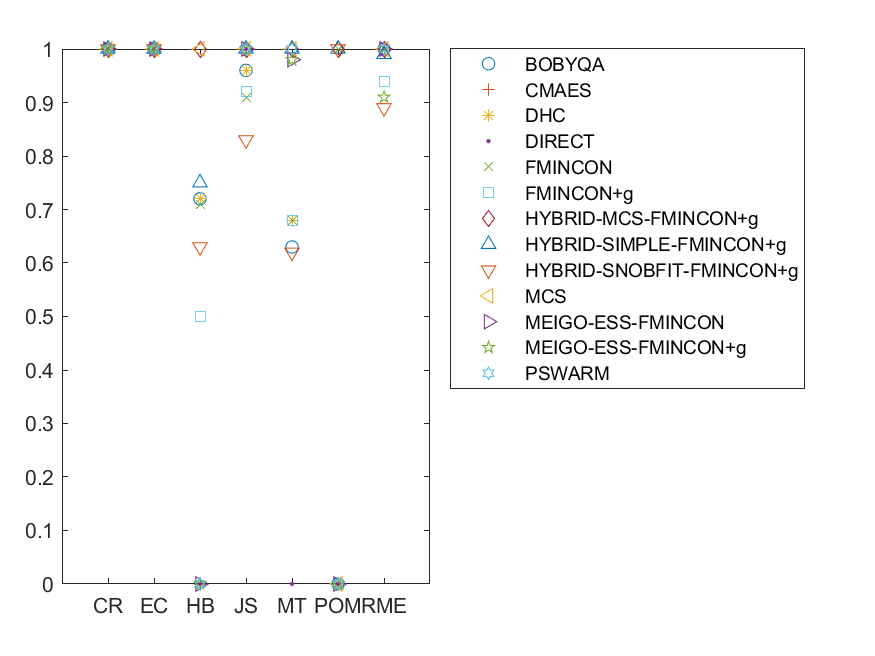
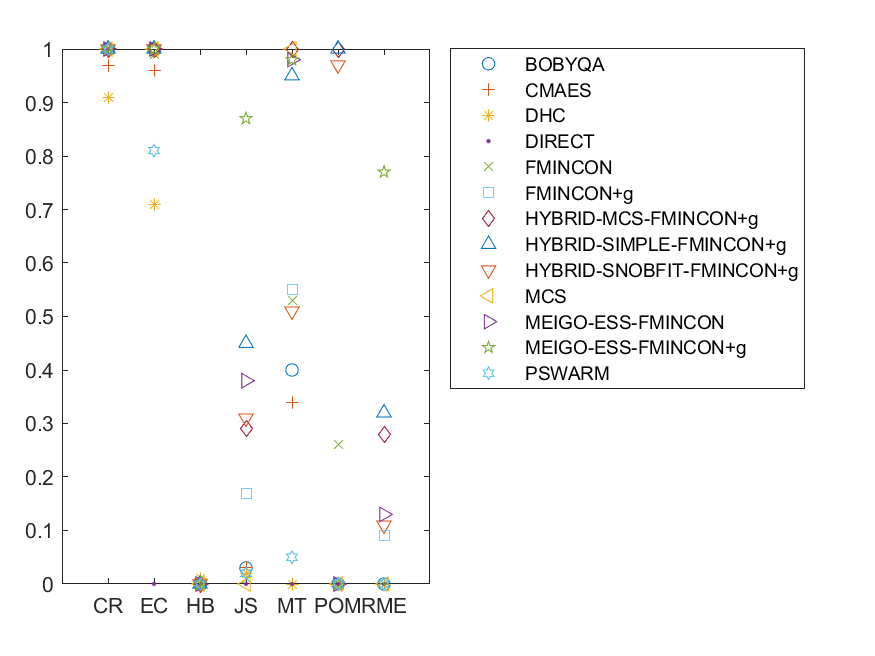
wrong sign for images

diff --git a/tests_sysbio/evaluateResults.m b/tests_sysbio/evaluateResults.m
@@ -70,7 +70,7 @@ funEvalsPerConvergedStart = inf(nProblems,nSolvers);
 for ip = 1:nProblems
      for is = 1:nSolvers
          tmp_totalFunEvals = sum(funEvals(ip,is,:));
-         tmp_convergedStarts = sum(nllh(ip,is,:) > bestFoundFval(ip) - 0.5);
+         tmp_convergedStarts = sum(nllh(ip,is,:) < bestFoundFval(ip) + 0.5);
          convergedStarts(ip,is) = tmp_convergedStarts / nStarts;
          funEvalsPerConvergedStart(ip,is) = tmp_totalFunEvals / tmp_convergedStarts; % / (cell_nPar{ip}*cell_maxFunEvals{ip});
      end
